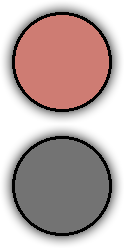
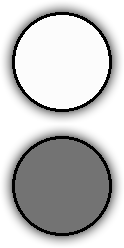
RegionButton Updated

Changed region(s): [[0.121, 0.0565, 0.8952, 0.4516]]

diff --git a/Riska/src/feup/lpoo/riska/scenes/GameScene.java b/Riska/src/feup/lpoo/riska/scenes/GameScene.java
@@ -8,6 +8,8 @@ import org.andengine.input.touch.TouchEvent;
 import org.andengine.input.touch.detector.ScrollDetector;
 import org.andengine.input.touch.detector.ScrollDetector.IScrollDetectorListener;
 import org.andengine.input.touch.detector.SurfaceScrollDetector;
+import org.andengine.util.adt.color.Color;
+
 import feup.lpoo.riska.HUD.GameHUD;
 import feup.lpoo.riska.elements.Player;
 import feup.lpoo.riska.elements.Region;
@@ -25,7 +27,7 @@ public class GameScene extends Scene implements IOnSceneTouchListener, IScrollDe
 	private static final long MIN_TOUCH_INTERVAL = 70;
 	private static final long MAX_TOUCH_INTERVAL = 400;
 	
-	private static final int ANIM = 100;
+	private static final int ANIM = 250;
 	
 	// ======================================================
 	// SINGLETONS
@@ -96,11 +98,21 @@ public class GameScene extends Scene implements IOnSceneTouchListener, IScrollDe
 		
 		boolean toPlayer = true; /* Is next region to be given to the player. */
 		for(Region region : resources.getMap().getRegions()) {
+			
 			if(toPlayer) {
 				player.addRegion(region);
+				// TODO remove this
+				region.changeButtonColor(Color.GREEN);
 			}
+			else {
+				// TODO remove this
+				region.changeButtonColor(Color.RED);
+			}
+			
 			toPlayer = !toPlayer;
 			region.updateHudButtonText(player);
+			
+			
 		}
 		
 	}

diff --git a/Riska/src/feup/lpoo/riska/elements/Region.java b/Riska/src/feup/lpoo/riska/elements/Region.java
@@ -6,13 +6,13 @@ import org.andengine.entity.sprite.ButtonSprite;
 import org.andengine.entity.sprite.Sprite;
 import org.andengine.entity.text.Text;
 import org.andengine.input.touch.TouchEvent;
+import org.andengine.util.adt.color.Color;
 
 import feup.lpoo.riska.logic.MainActivity;
 import feup.lpoo.riska.resources.ResourceCache;
 import feup.lpoo.riska.scenes.CameraManager;
 import feup.lpoo.riska.scenes.GameScene;
 import feup.lpoo.riska.scenes.SceneManager;
-
 import android.graphics.Point;
 import android.util.Log;
 import android.view.MotionEvent;
@@ -293,6 +293,10 @@ public class Region {
 	
 	public ButtonSprite getButton() {
 		return button;
+	}
+
+	public void changeButtonColor(Color color) {
+		this.button.setColor(color);
 	}
 
 }
